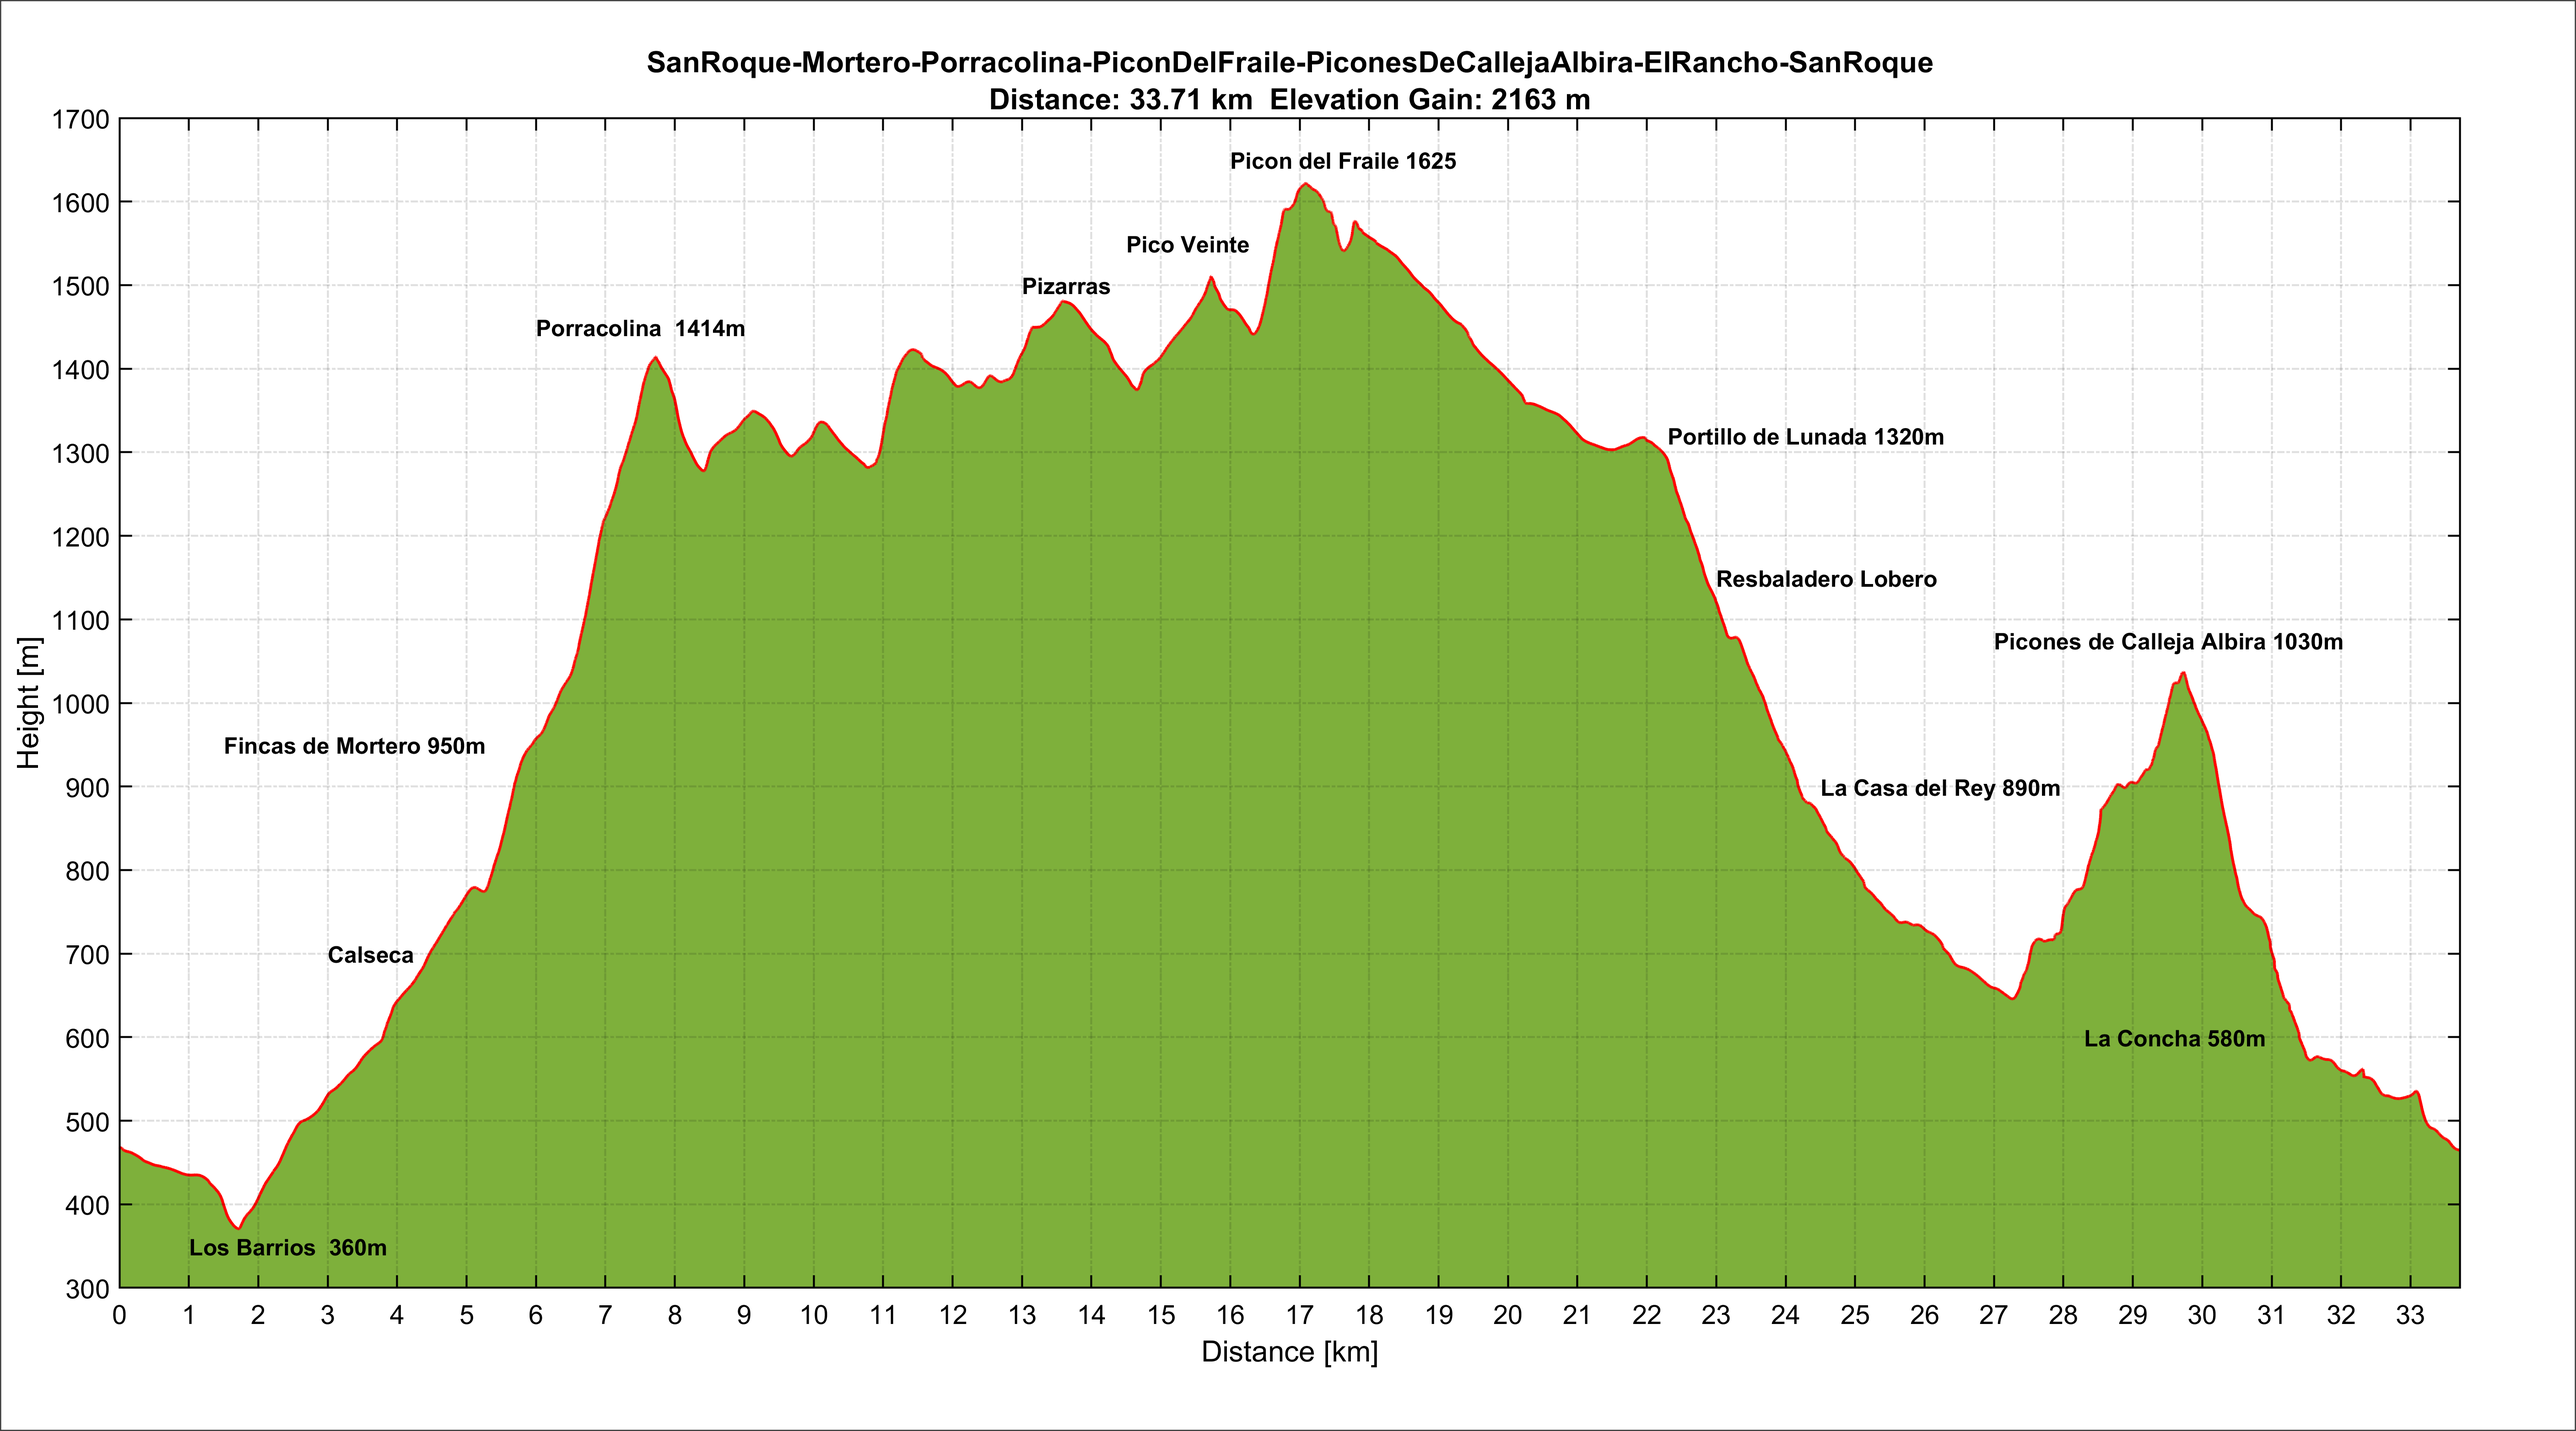
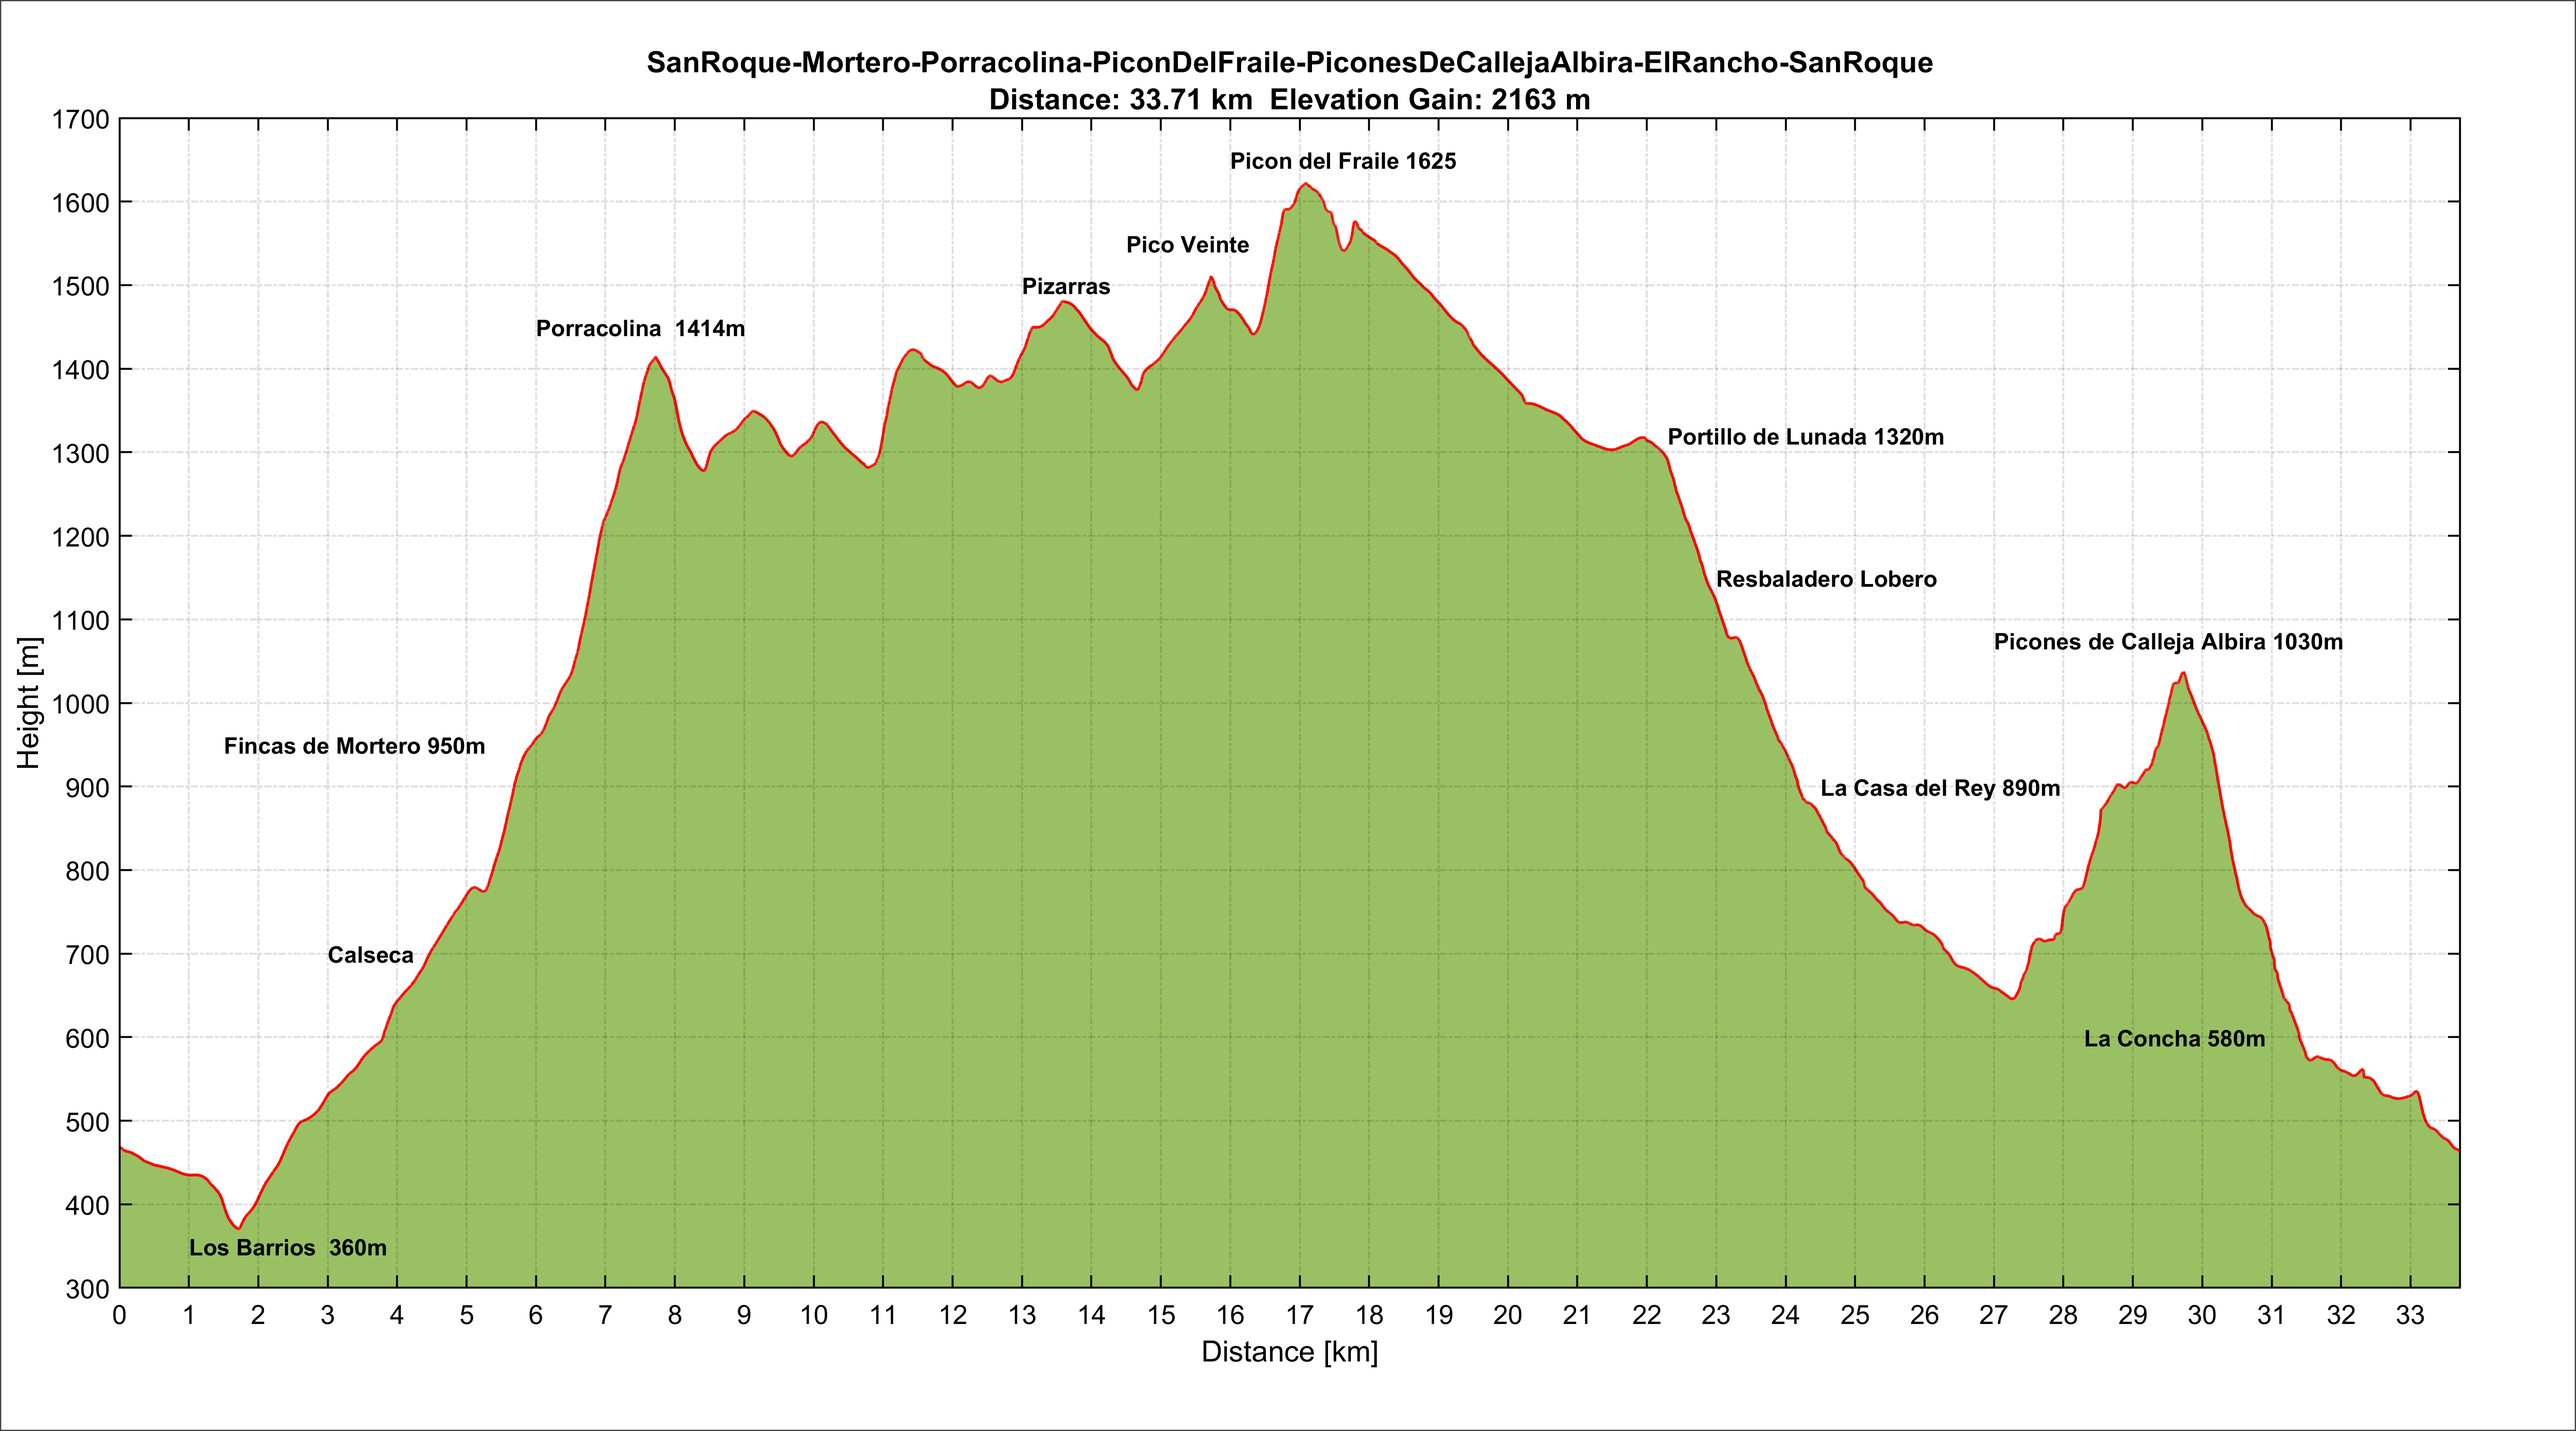
update elevation gain plot

diff --git a/main2.m b/main2.m
@@ -1,5 +1,8 @@
 clear all;clc;close all
 
+
+%%% MAIN2 --> PLOT ELEVATION GAIN
+%%%%%%%%%%%%%%%%%%%%%%%%%%%%%%%%%%%
 readGPXfiles = false;
 
 getGPXdata(readGPXfiles)
@@ -7,7 +10,7 @@ getGPXdata(readGPXfiles)
 load('dataLabels.mat')
 load('dataGPX.mat')
 
-for i=1 % i = route profile_i
+for i=2 % i = route profile_i
     
     clearvars -except i dataLabels dataGPX
     
@@ -29,7 +32,10 @@ for i=1 % i = route profile_i
     x     = zeros(1,length(Ele));
     x(1)  = 0;
     x_sum = 0;
+
     h     = Ele;
+    h_sum = 0;
+    cumh  = zeros(1,length(Ele));
     
     % compute the distance vector x
     for j=1:length(coordsx)-1
@@ -38,6 +44,13 @@ for i=1 % i = route profile_i
         yi     = coordsy(j+1) - coordsy(j);
         x_sum  = x_sum + sqrt(xi^2 + yi^2);
         x(j+1) = x_sum;
+
+        if h(j+1)>h(j)
+            h_sum     = h_sum + h(j+1)-h(j);
+           
+        end
+
+         cumh(j+1) = h_sum;
     
     end
     
@@ -61,7 +74,8 @@ for i=1 % i = route profile_i
     nexttile
     hold on;box on;grid on;
     annotation('rectangle',[0 0 1 1 ],'Color','k',LineWidth=0.1);
-
+    
+    yyaxis left
     % plot filter signal
     area = area(x/1000,h_m);
            area.FaceColor = [0.4660 0.6740 0.1880] ;
@@ -75,7 +89,9 @@ for i=1 % i = route profile_i
     axis([0 x_sum/1000 min_y max_y]);
     pbaspect([2 1 1])
     
-    
+    yyaxis right
+    plot(x/1000,cumh);
+
     title({data.title;sprintf('Distance: %0.2f km  Elevation Gain: %d m',str2num(data.DI),str2num(data.EG))})
     xlabel('Distance [km]')
     ylabel('Height [m]')
@@ -101,6 +117,5 @@ for i=1 % i = route profile_i
          TXT{k} =text(txt{k,1},txt{k,2},txt{k,3},'FontWeight','bold','FontSize',fontsize);
     end
     
-    xportgraphics(gcf,['imgs/elevation_profile_',num2str(i),e'.png'],'Resolution',300);
 
 end

diff --git a/README.md b/README.md
@@ -13,8 +13,8 @@ $$ \overline{|GPS-Filtered|} = 0.271m   $$
 ![ElevationProfile](filterImgs/filter_0.05.png)
 <br/><br/>
 
+# Final examples of elevation profiles from my [Wikiloc Routes ](https://es.wikiloc.com/wikiloc/user.do?id=6299750)
 
-# Elevation profiles final examples from my wikiloc routes
 
 ## Profile 1
 https://es.wikiloc.com/rutas-senderismo/selaya-picones-de-sopena-castro-valnera-bajada-a-vega-de-pas-desde-el-alto-de-estacas-de-trueba-sel-57011719
